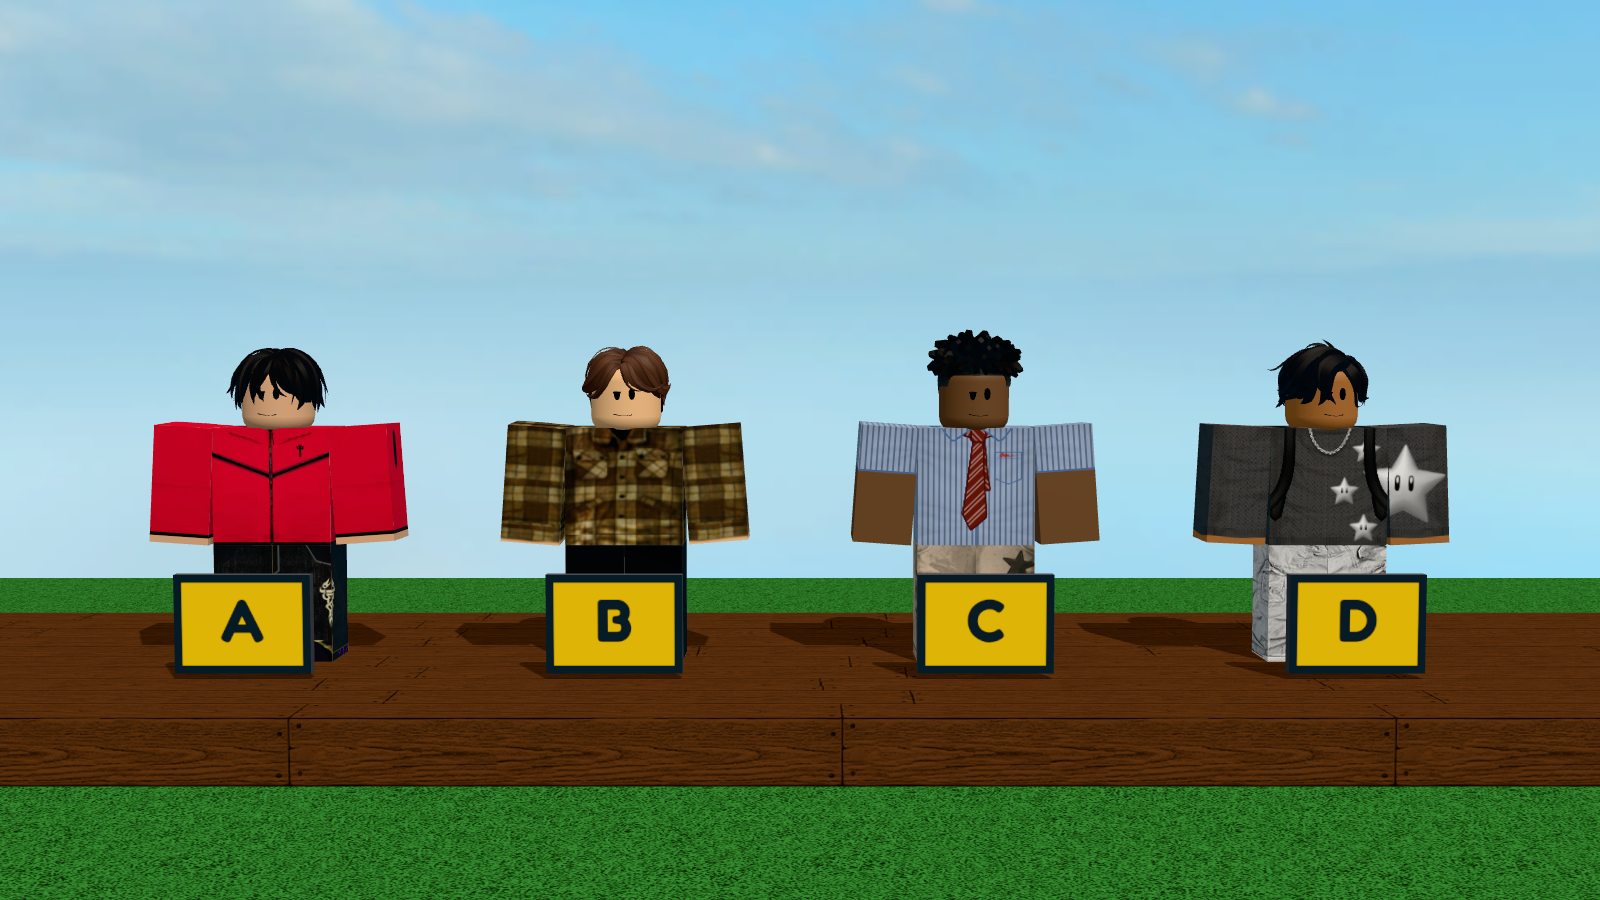
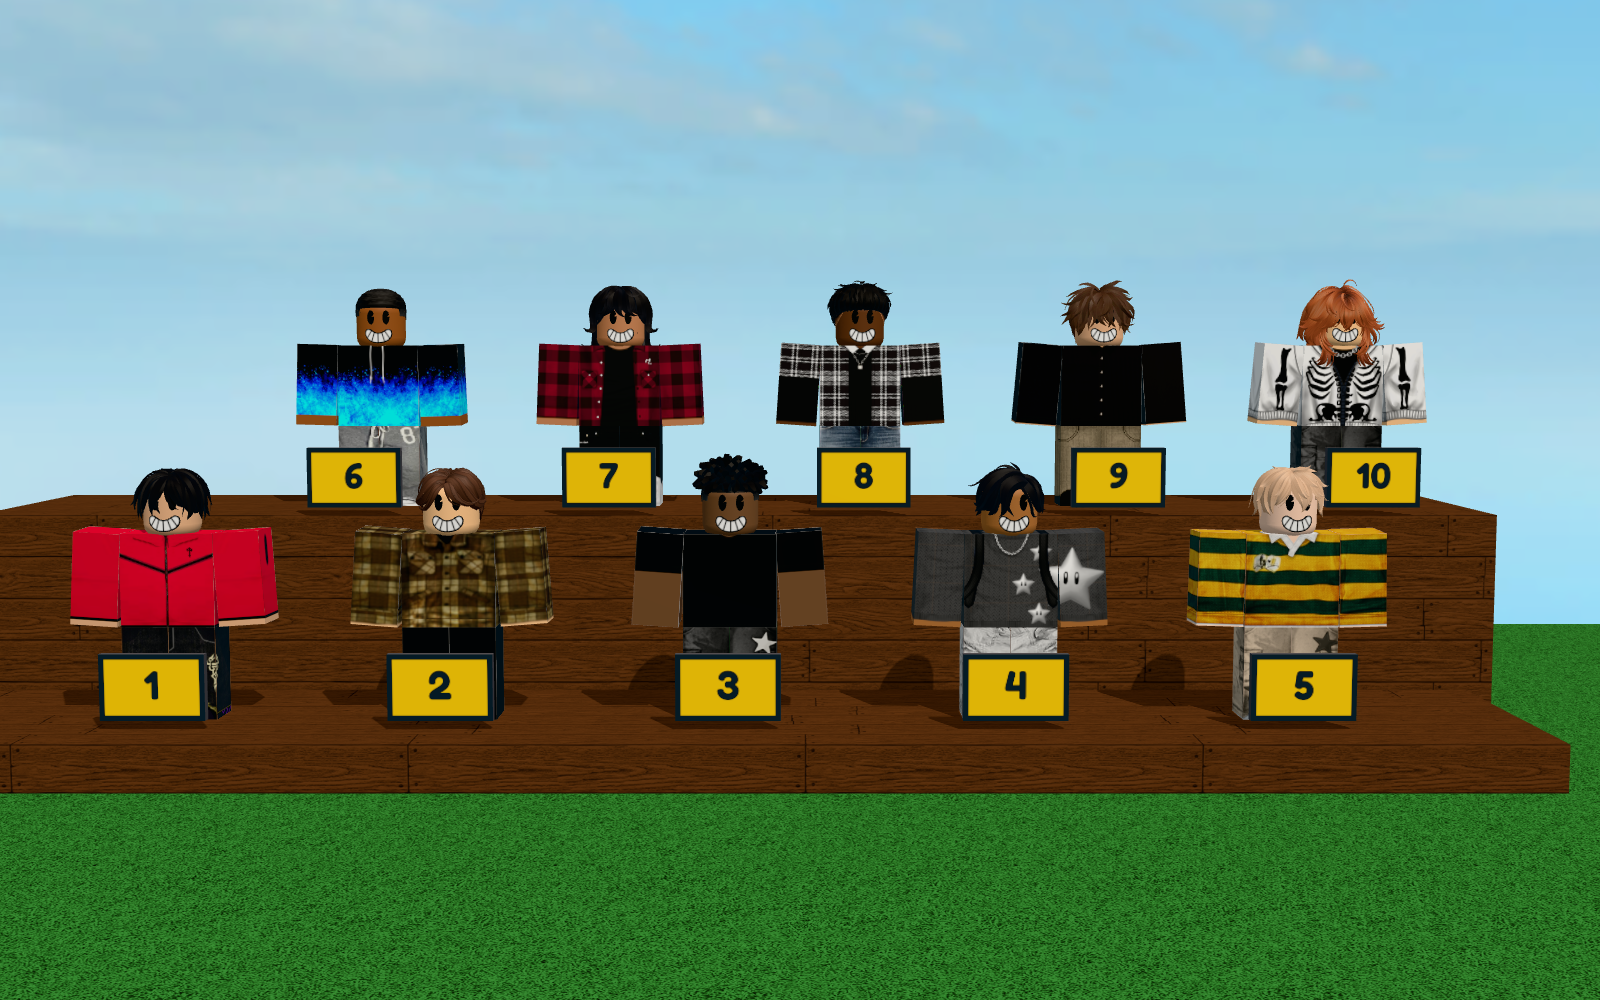
Main character: 10 casual male options with face #11
Claude-Session: https://claude.ai/code/session_01Vod8CkqXUTU1A9orC9vx3C

diff --git a/animation/scenes/mainchar.js b/animation/scenes/mainchar.js
@@ -6,21 +6,27 @@ import { BRICK, SKIN, part } from '../src/roblox.js';
 import { Actor, POSES } from '../src/actors.js';
 import * as P from '../src/props.js';
 
-// Casual looks, all with the same chill face (dot eyes, small smile).
-export const FACE = ['face-eyes-skeptical-lower', 'face-mouth-smirk'];
+// Casual male looks, all with the same face (#11 on the face sheet: big eyes, big grin).
+export const FACE = 'face-big-grin-retro';
 export const CANDIDATES = {
-  A: { shirt: 'shirt-tech-fleece-red-hoodie', pants: 'pants-jeans-hip-hop-retro', hair: 'hair-messy-popular-boy', skin: SKIN.lightOrange },
-  B: { shirt: 'shirt-vintage-flannel-button-up', pants: 'pants-dark-pants', hair: 'hair-brown-side-sweep', skin: SKIN.pastelBrown },
-  C: { shirt: 'shirt-blue-stripe-shirt-neck', pants: 'pants-cargo-pants-tan-beige', hair: 'hair-high-top-fade', skin: SKIN.brown },
-  D: { shirt: 'shirt-grey-knitted-sweater-chain', pants: 'pants-white-cargo-jeans-dh', hair: 'hair-black-messy-side-part', skin: SKIN.tan },
+  1: { shirt: 'shirt-tech-fleece-red-hoodie', pants: 'pants-jeans-hip-hop-retro', hair: 'hair-messy-popular-boy', skin: SKIN.lightOrange },
+  2: { shirt: 'shirt-vintage-flannel-button-up', pants: 'pants-dark-pants', hair: 'hair-brown-side-sweep', skin: SKIN.pastelBrown },
+  3: { shirt: 'shirt-black-short-sleeve-tee', pants: 'pants-cargo-pants-grey-black', hair: 'hair-high-top-fade', skin: SKIN.brown },
+  4: { shirt: 'shirt-grey-knitted-sweater-chain', pants: 'pants-white-cargo-jeans-dh', hair: 'hair-black-messy-side-part', skin: SKIN.tan },
+  5: { shirt: 'shirt-thrifted-striped-polo', pants: 'pants-cargo-pants-tan-beige', hair: 'hair-messy-boy-blonde', skin: SKIN.porcelain },
+  6: { shirt: 'shirt-sweter-galaxy-blue-100', pants: 'pants-gray-sweatpants', hair: 'hair-360-waves-fade', skin: SKIN.darkOrange },
+  7: { shirt: 'shirt-mu-red-flannel-black', pants: 'pants-ripped-black-jeans-mu', hair: 'hair-black-wolf-cut', skin: SKIN.nougat },
+  8: { shirt: 'shirt-black-flannel-soft-trendy', pants: 'pants-jeans-stars', hair: 'hair-faded-edgar-cut', skin: SKIN.reddishBrown },
+  9: { shirt: 'shirt-school-boy', pants: 'pants-kestrel-khaki-textured-pants', hair: 'hair-brown-messy', skin: SKIN.lightOrange },
+  10: { shirt: 'shirt-white-shirt', pants: 'pants-cargo-pants-grey-black-3', hair: 'hair-short-wolf-cut-ginger', skin: SKIN.pastelBrown },
 };
-const FACES = [...FACE, 'face-eyes-shocked', 'face-mouth-small-frown', 'face-addon-sweat-drop', 'face-addon-tears', 'face-addon-anger-mark-big'];
+const FACES = [FACE, 'face-eyes-shocked', 'face-mouth-small-frown', 'face-addon-sweat-drop', 'face-addon-tears', 'face-addon-anger-mark-big'];
 
 export const meta = {
   duration: 2,
   fps: 30,
   width: 1600,
-  height: 900,
+  height: 1000,
   physics: false,
   faces: ['happy', 'grin', 'sad', 'angry'],
   accessories: [...Object.values(CANDIDATES).map((c) => c.hair), ...FACES],
@@ -29,7 +35,8 @@ export const meta = {
 
 export function setup({ scene, camera, assets, faces, sun }) {
   scene.add(part(assets, [80, 1, 40], [0, -0.5, 0], BRICK.brightGreen, 'Grass', { shadows: false }));
-  scene.add(part(assets, [36, 1, 10], [0, 0.5, -2], BRICK.reddishBrown, 'WoodPlanks'));
+  scene.add(part(assets, [34, 1, 6], [0, 0.5, 0], BRICK.reddishBrown, 'WoodPlanks'));
+  scene.add(part(assets, [36, 5, 6], [0, 2.5, -7], BRICK.reddishBrown, 'WoodPlanks'));
   sun.target.position.set(0, 0, 0);
   sun.position.set(20, 50, 40);
   const keys = Object.keys(CANDIDATES);
@@ -40,22 +47,24 @@ export function setup({ scene, camera, assets, faces, sun }) {
   });
   for (const a of actors) scene.add(a.root);
   keys.forEach((k, i) => {
-    const s = P.sign(assets, 2.2, 1.6, k, { bg: '#ffd21f', fg: '#1b2a35', size: 150, border: '#1b2a35' });
-    s.position.set(-9 + i * 6, 1.9, 0.0);
+    const s = P.sign(assets, 2.2, 1.4, k, { bg: '#ffd21f', fg: '#1b2a35', size: 150, border: '#1b2a35' });
+    s.position.set(-12 + (i % 5) * 6 + (i < 5 ? 0 : 3), i < 5 ? 1.9 : 5.9, i < 5 ? 1.5 : -3.9);
     scene.add(s);
   });
   const moods = [['happy'], ['face-eyes-shocked', 'face-mouth-small-frown', 'face-addon-sweat-drop'], ['sad', 'face-addon-tears'], ['angry', 'face-addon-anger-mark-big']];
   const poses = [POSES.cheer, POSES.shocked, POSES.cry, POSES.yell];
+  const mood = (i) => moods[i % moods.length];
+  const act = (i) => poses[i % poses.length];
 
   return (t) => {
     const sheet = Math.round(t);
     actors.forEach((a, i) => {
-      const pose = sheet === 0 ? POSES.idle(0.3 + i * 0.4) : poses[i](0.5);
-      a.set({ at: [-9 + i * 6, -2], y: 1, yaw: sheet === 0 ? 0 : 0, pose, face: sheet === 0 ? FACE : moods[i] });
+      const pose = sheet === 0 ? POSES.idle(0.3 + i * 0.4) : act(i)(0.5);
+      a.set({ at: [-12 + (i % 5) * 6 + (i < 5 ? 0 : 3), i < 5 ? 0 : -7], y: i < 5 ? 1 : 5, yaw: sheet === 0 ? 0 : 0, pose, face: sheet === 0 ? FACE : mood(i) });
     });
     camera.fov = 30;
-    camera.position.set(0, 6.2, 27);
-    camera.lookAt(0, 4.6, -2);
+    camera.position.set(1.5, 9, 40);
+    camera.lookAt(1.5, 5.4, -3.5);
     camera.updateProjectionMatrix();
   };
 }
